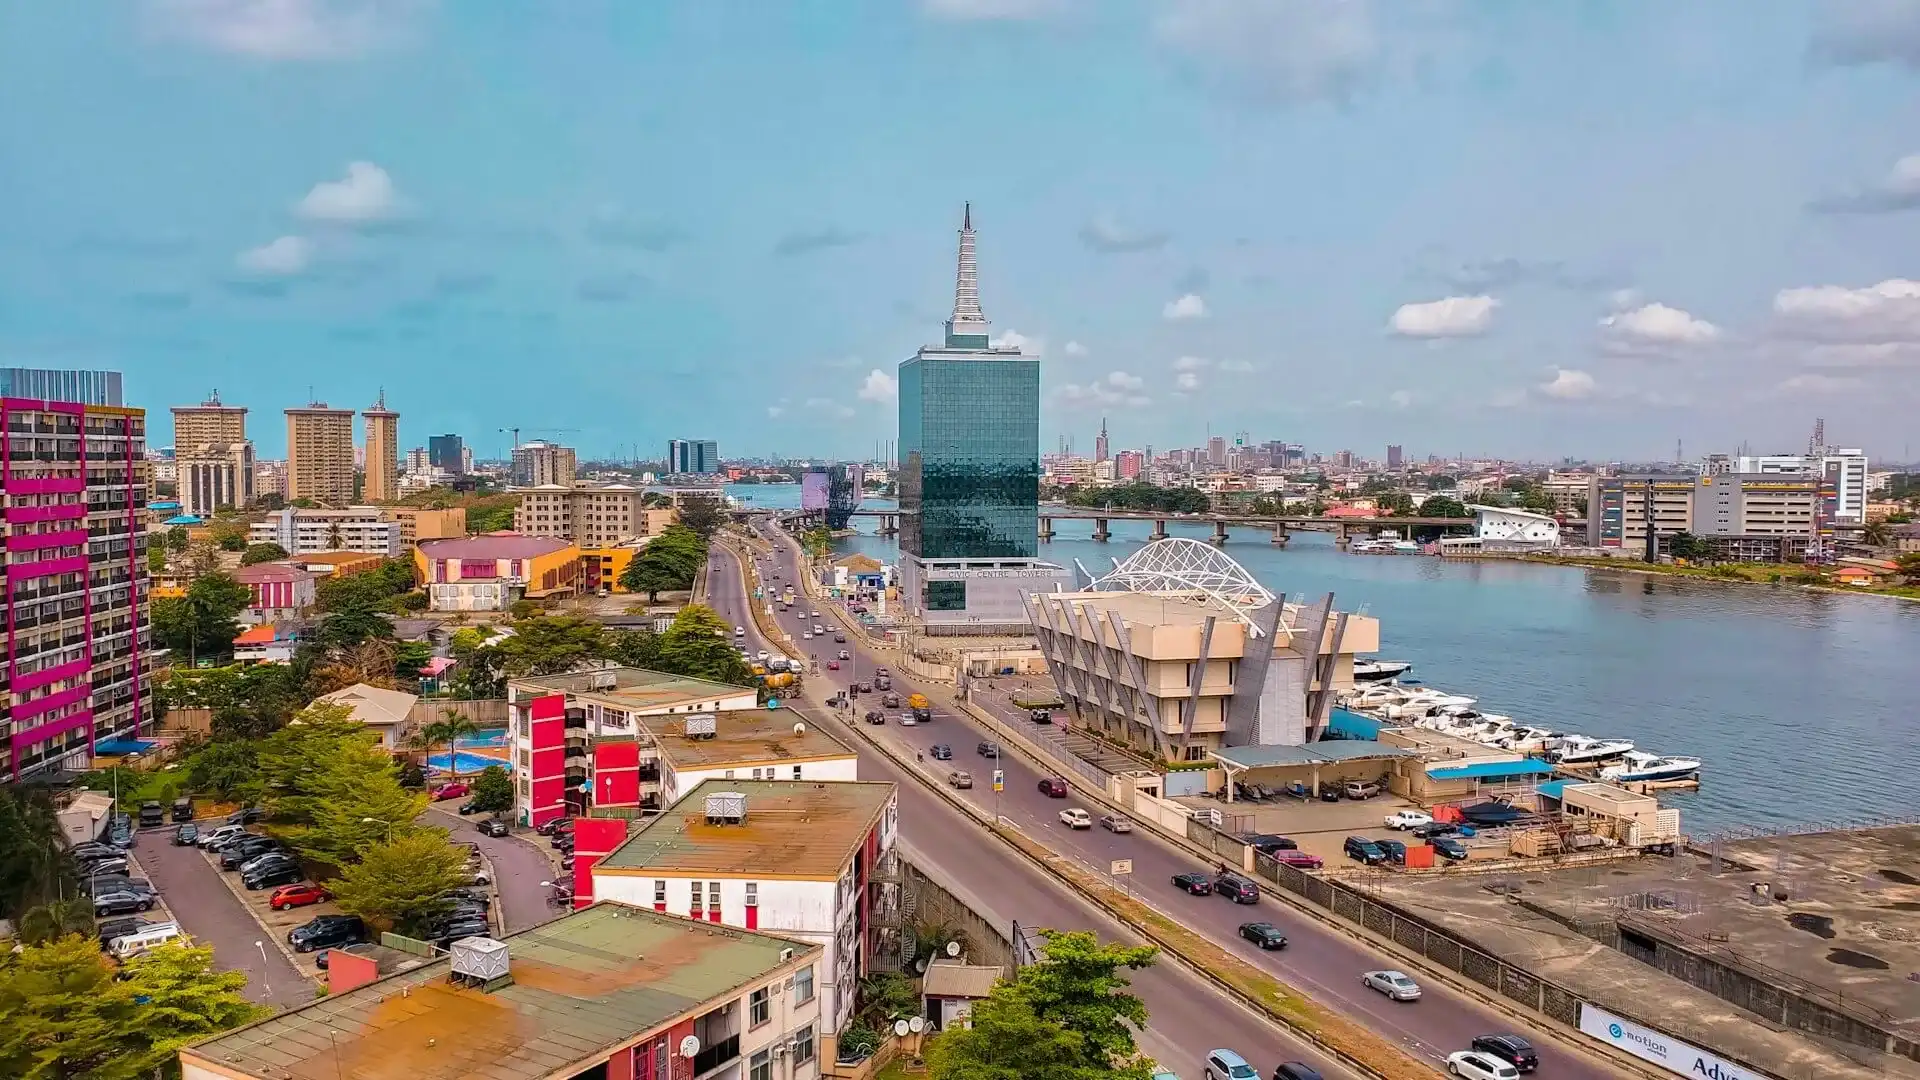
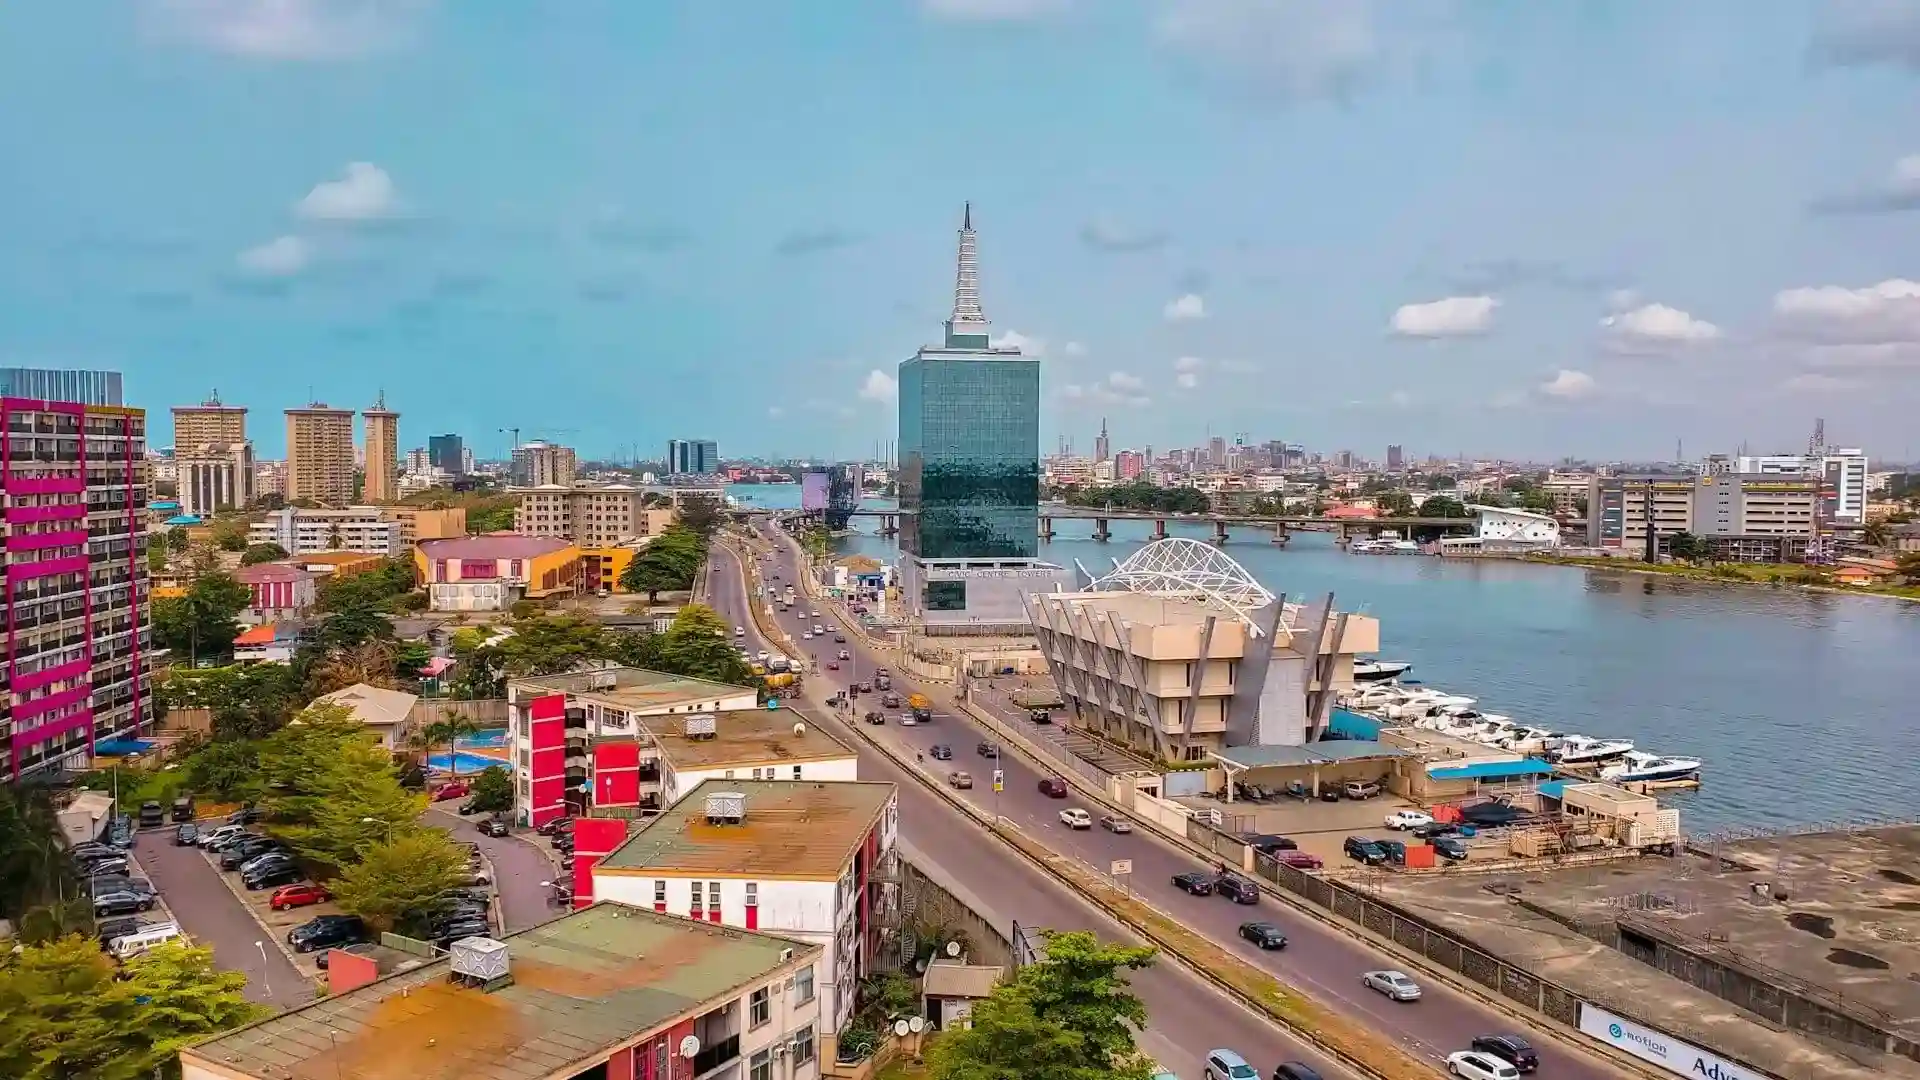
Optimize Nigeria images and fix CSS duplicate rules

diff --git a/styles/place.css b/styles/place.css
@@ -1,4 +1,4 @@
-/* Color scheme inspired by Nigeria's flag - green and white */
+/* Color scheme inspired by Nigeria's vision - Blue and Yellow */
 :root {
   --primary: #1e3c72;
   --secondary: #2a5298;
@@ -28,14 +28,6 @@ header {
   text-align: center;
   padding: 1.5rem;
   box-shadow: 0 2px 10px rgba(0, 0, 0, 0.1);
-}
-
-header h1 {
-  font-weight: 700;
-  font-size: 2rem;
-  color: var(--accent);
-  margin: 0;
-  text-shadow: 1px 1px 2px rgba(0, 0, 0, 0.3);
 }
 
 header h1 {
